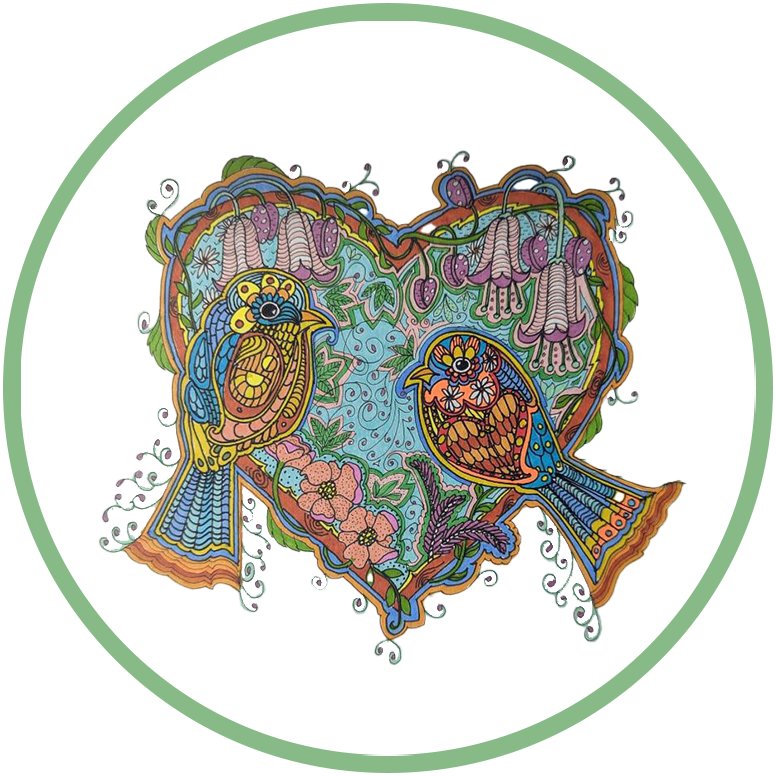
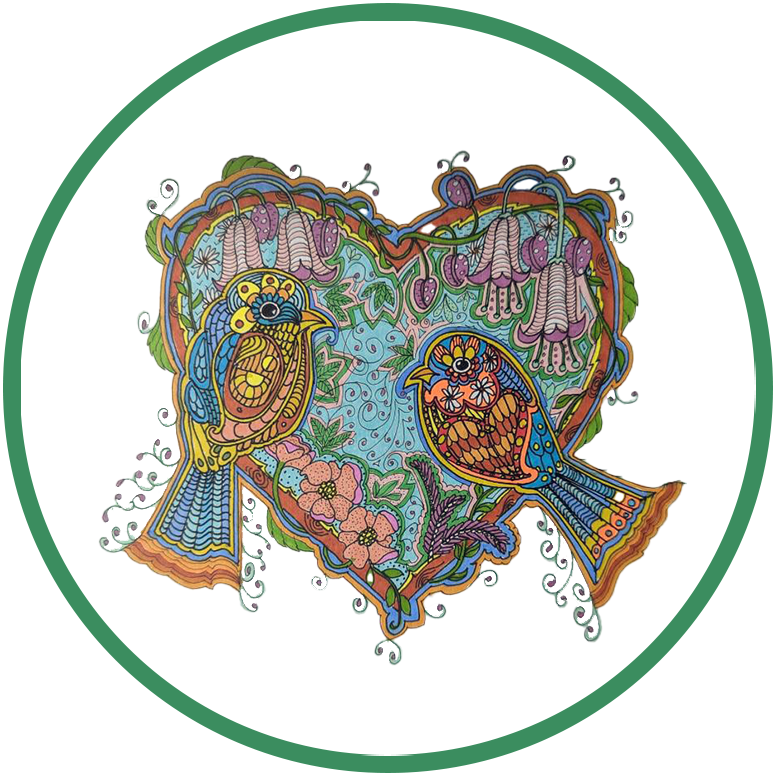
fixing border colour and text background

Changed region(s): [[0.0, 0.0, 1.0, 1.0]]

diff --git a/PL.css b/PL.css
@@ -93,18 +93,18 @@ img {
 /* Headings Styles */
 h1, h2 {
     color: #df71a8;
-    background-color: rgba(255, 255, 255, 0.8);
+    /*background-color: rgba(255, 255, 255, 0.8);*/
     border-radius: 1vw;
     padding: 0.5vh 1vw;
     text-align: center;
     margin-bottom: 2vh;
-    /*text-shadow: 
+    text-shadow: 
         -2px -2px 0 white,        
          2px -2px 0 white,       
         -2px  2px 0 white,       
          2px  2px 0 white; 
          
-     */    
+         
 }
 
 h1 {
